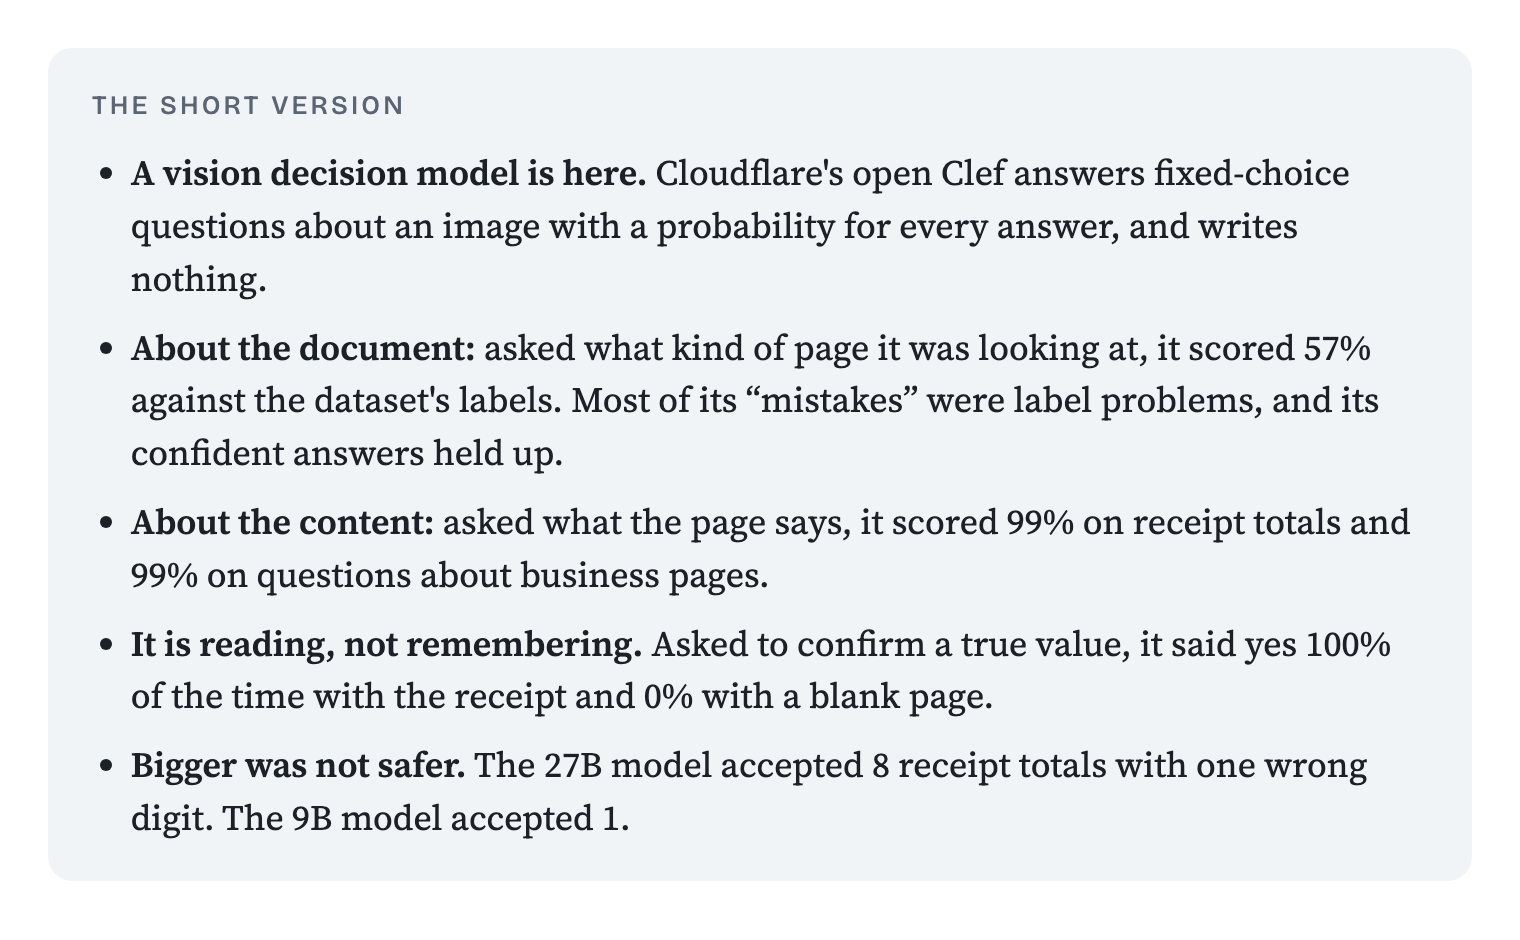
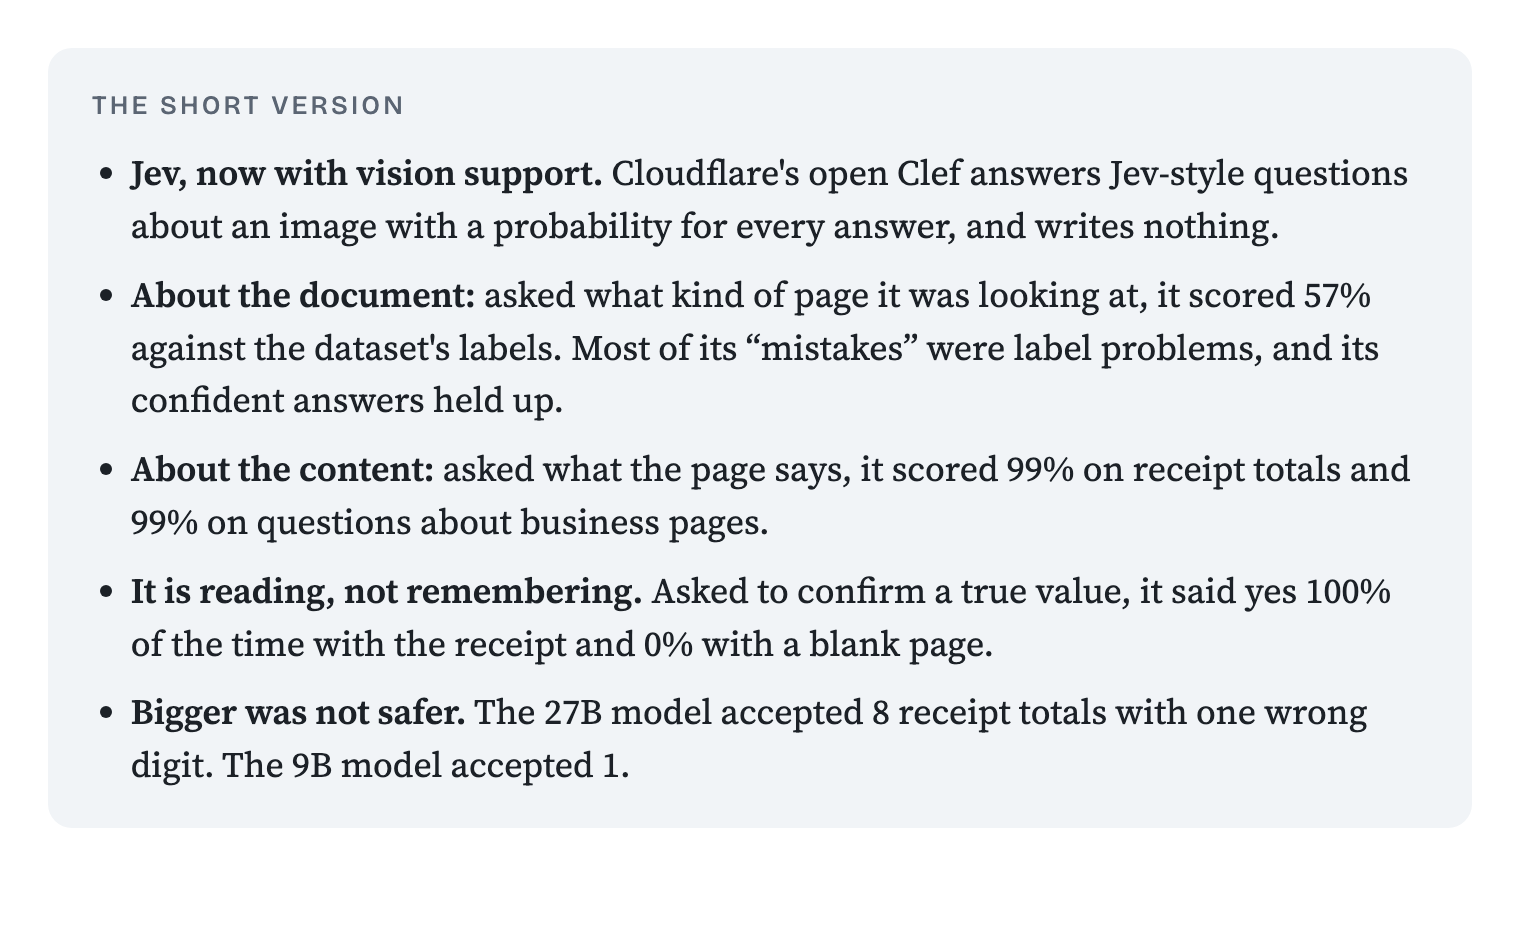
Blog: Jev-with-vision title and opening; journal entry 25

Changed region(s): [[0.0618, 0.1543, 0.9276, 0.833], [0.0928, 0.8638, 0.402, 0.8947]]

diff --git a/docs/blog/template.html b/docs/blog/template.html
@@ -136,15 +136,15 @@
 <main>
 <header>
   <div class="kicker">Field test · Decision models</div>
-  <h1>Can Cloudflare's Clef read your documents without writing a word?</h1>
-  <p class="hook">Everyone is talking about Jev. Two weeks later, almost nobody noticed that a decision model which can <em>see</em> had shipped. We pointed it at scans, receipts and business pages. It read them so well that we went looking for the trick.</p>
+  <h1>Jev, now with vision support: meet Clef, and watch it read documents</h1>
+  <p class="hook">Jev brought decision models into the spotlight in September: a model that answers each question with a probability for every allowed answer, and writes no text. Jev reads text only. Two weeks later Cloudflare released Clef, a decision model built on the same idea that also accepts images. It has received far less attention. We tested it on documents.</p>
   <div class="byline"><span>October 2026</span><a href="https://github.com/vignesh865/doc-jev">Code, raw replies and research journal</a></div>
 </header>
 
 <div class="short">
   <h3>The short version</h3>
   <ul>
-    <li><strong>A vision decision model is here.</strong> Cloudflare's open Clef answers fixed-choice questions about an image with a probability for every answer, and writes nothing.</li>
+    <li><strong>Jev, now with vision support.</strong> Cloudflare's open Clef answers Jev-style questions about an image with a probability for every answer, and writes nothing.</li>
     <li><strong>About the document:</strong> asked what kind of page it was looking at, it scored __E01_ACC__% against the dataset's labels. Most of its “mistakes” were label problems, and its confident answers held up.</li>
     <li><strong>About the content:</strong> asked what the page says, it scored __CORD_ACC__% on receipt totals and __DOC_ACC__% on questions about business pages.</li>
     <li><strong>It is reading, not remembering.</strong> Asked to confirm a true value, it said yes __CR_REAL__% of the time with the receipt and __CR_BLANK__% with a blank page.</li>
@@ -152,11 +152,20 @@
   </ul>
 </div>
 
-<h2>Wait, a decision model that can see?</h2>
-<p class="lead">This is the background: what a decision model is, and what Clef adds.</p>
-<p>Most AI models you have used are talkers. You ask, they write. That is great for conversation and awkward for paperwork. When you only want to know <em>is this an invoice?</em> or <em>is this the right total?</em>, a written reply is slow, costs money, sometimes arrives in the wrong format, and gives no honest signal of how sure the model is.</p>
-<p><strong>Decision models</strong> skip the writing. You send some input and a few questions with fixed answers, and you get back a probability for every allowed answer, say for <em>invoice</em>, <em>receipt</em> and <em>letter</em>. Jev made the idea popular in September, but Jev reads text only.</p>
-<p>On 1 October 2026 Cloudflare released two open models of the same kind, <strong>Clef</strong> (27 billion parameters) and the faster <strong>Clef-flash</strong> (9 billion), and these can look at <strong>images</strong>. Cloudflare's own results cover more than forty benchmarks, all text. None of them uses a document, and none says whether the probabilities can be trusted. So we tried.</p>
+<h2>What is Clef?</h2>
+<p class="lead">This is the introduction: the decision-model idea that Jev made popular, extended to images.</p>
+<p>Most AI models in use today are generative: you ask, and they write an answer. That suits conversation, but much routine work is not conversation. When the question is <em>is this an invoice?</em> or <em>is this the right total?</em>, a written reply is slower and costlier than it needs to be, may arrive in an unexpected format, and gives no reliable signal of how sure the model is.</p>
+<p><strong>Decision models</strong> take a different approach. You send some input and a set of questions with fixed answers, and the model returns a probability for every allowed answer, for example for <em>invoice</em>, <em>receipt</em> and <em>letter</em>. Nothing is generated. Jev brought this approach to wide attention in September 2026, but Jev accepts text only.</p>
+<p>On 1 October 2026 Cloudflare released <strong>Clef</strong>. It uses the same question types as Jev and accepts the same requests, its weights are open, and it comes in two sizes: <strong>Clef-flash</strong> (9 billion parameters) and <strong>Clef</strong> (27 billion). The difference is that Clef also accepts <strong>images</strong>. Cloudflare reports results on more than forty benchmarks, all of them text. None uses a document, and none reports whether the probabilities can be trusted.</p>
+
+<h2>What changes when a decision model can see?</h2>
+<p class="lead">This is why vision matters. The decision can be made from the page itself.</p>
+<ul class="plain">
+  <li><strong>No text extraction step.</strong> A text-only model needs the page converted to text first, usually by OCR. Each conversion loses something: layout, table structure, ticks, stamps, handwriting. A model that sees decides from the page as it is.</li>
+  <li><strong>Questions text cannot carry.</strong> Is the form signed? Is the box ticked? Is the page blank? Is this a scan or a photograph? These depend on what the page looks like, not only on its words.</li>
+  <li><strong>One request per page.</strong> The image goes in, typed answers come out, and each answer can drive an action directly: route the document, accept a value, or send the page to a person.</li>
+  <li><strong>Beyond documents.</strong> The same applies to screenshots, product photos and identity documents. We did not test those here.</li>
+</ul>
 
 <h2>Why point it at documents?</h2>
 <p class="lead">This is why the task fits. Most document work is deciding, not writing.</p>

diff --git a/docs/blog/clef-docs.html b/docs/blog/clef-docs.html
@@ -136,15 +136,15 @@
 <main>
 <header>
   <div class="kicker">Field test · Decision models</div>
-  <h1>Can Cloudflare's Clef read your documents without writing a word?</h1>
-  <p class="hook">Everyone is talking about Jev. Two weeks later, almost nobody noticed that a decision model which can <em>see</em> had shipped. We pointed it at scans, receipts and business pages. It read them so well that we went looking for the trick.</p>
+  <h1>Jev, now with vision support: meet Clef, and watch it read documents</h1>
+  <p class="hook">Jev brought decision models into the spotlight in September: a model that answers each question with a probability for every allowed answer, and writes no text. Jev reads text only. Two weeks later Cloudflare released Clef, a decision model built on the same idea that also accepts images. It has received far less attention. We tested it on documents.</p>
   <div class="byline"><span>October 2026</span><a href="https://github.com/vignesh865/doc-jev">Code, raw replies and research journal</a></div>
 </header>
 
 <div class="short">
   <h3>The short version</h3>
   <ul>
-    <li><strong>A vision decision model is here.</strong> Cloudflare's open Clef answers fixed-choice questions about an image with a probability for every answer, and writes nothing.</li>
+    <li><strong>Jev, now with vision support.</strong> Cloudflare's open Clef answers Jev-style questions about an image with a probability for every answer, and writes nothing.</li>
     <li><strong>About the document:</strong> asked what kind of page it was looking at, it scored 57% against the dataset's labels. Most of its “mistakes” were label problems, and its confident answers held up.</li>
     <li><strong>About the content:</strong> asked what the page says, it scored 99% on receipt totals and 99% on questions about business pages.</li>
     <li><strong>It is reading, not remembering.</strong> Asked to confirm a true value, it said yes 100% of the time with the receipt and 0% with a blank page.</li>
@@ -152,11 +152,20 @@
   </ul>
 </div>
 
-<h2>Wait, a decision model that can see?</h2>
-<p class="lead">This is the background: what a decision model is, and what Clef adds.</p>
-<p>Most AI models you have used are talkers. You ask, they write. That is great for conversation and awkward for paperwork. When you only want to know <em>is this an invoice?</em> or <em>is this the right total?</em>, a written reply is slow, costs money, sometimes arrives in the wrong format, and gives no honest signal of how sure the model is.</p>
-<p><strong>Decision models</strong> skip the writing. You send some input and a few questions with fixed answers, and you get back a probability for every allowed answer, say for <em>invoice</em>, <em>receipt</em> and <em>letter</em>. Jev made the idea popular in September, but Jev reads text only.</p>
-<p>On 1 October 2026 Cloudflare released two open models of the same kind, <strong>Clef</strong> (27 billion parameters) and the faster <strong>Clef-flash</strong> (9 billion), and these can look at <strong>images</strong>. Cloudflare's own results cover more than forty benchmarks, all text. None of them uses a document, and none says whether the probabilities can be trusted. So we tried.</p>
+<h2>What is Clef?</h2>
+<p class="lead">This is the introduction: the decision-model idea that Jev made popular, extended to images.</p>
+<p>Most AI models in use today are generative: you ask, and they write an answer. That suits conversation, but much routine work is not conversation. When the question is <em>is this an invoice?</em> or <em>is this the right total?</em>, a written reply is slower and costlier than it needs to be, may arrive in an unexpected format, and gives no reliable signal of how sure the model is.</p>
+<p><strong>Decision models</strong> take a different approach. You send some input and a set of questions with fixed answers, and the model returns a probability for every allowed answer, for example for <em>invoice</em>, <em>receipt</em> and <em>letter</em>. Nothing is generated. Jev brought this approach to wide attention in September 2026, but Jev accepts text only.</p>
+<p>On 1 October 2026 Cloudflare released <strong>Clef</strong>. It uses the same question types as Jev and accepts the same requests, its weights are open, and it comes in two sizes: <strong>Clef-flash</strong> (9 billion parameters) and <strong>Clef</strong> (27 billion). The difference is that Clef also accepts <strong>images</strong>. Cloudflare reports results on more than forty benchmarks, all of them text. None uses a document, and none reports whether the probabilities can be trusted.</p>
+
+<h2>What changes when a decision model can see?</h2>
+<p class="lead">This is why vision matters. The decision can be made from the page itself.</p>
+<ul class="plain">
+  <li><strong>No text extraction step.</strong> A text-only model needs the page converted to text first, usually by OCR. Each conversion loses something: layout, table structure, ticks, stamps, handwriting. A model that sees decides from the page as it is.</li>
+  <li><strong>Questions text cannot carry.</strong> Is the form signed? Is the box ticked? Is the page blank? Is this a scan or a photograph? These depend on what the page looks like, not only on its words.</li>
+  <li><strong>One request per page.</strong> The image goes in, typed answers come out, and each answer can drive an action directly: route the document, accept a value, or send the page to a person.</li>
+  <li><strong>Beyond documents.</strong> The same applies to screenshots, product photos and identity documents. We did not test those here.</li>
+</ul>
 
 <h2>Why point it at documents?</h2>
 <p class="lead">This is why the task fits. Most document work is deciding, not writing.</p>

diff --git a/JOURNAL.md b/JOURNAL.md
@@ -1058,3 +1058,20 @@ E06 and the contamination test are done.*
   number is unused** as well as if any placeholder is unfilled (this caught one
   missing number during the rewrite). 2,908 answered calls in total, $0.34 at
   list price, $0 paid. PNGs: 5 charts and 6 boxes.
+
+---
+
+## 25. Blog opening: Jev with vision
+
+*2026-10-10.*
+
+- **Framing [U].** Jev is the term readers know, so the post introduces Clef
+  as Jev with vision. Title chosen by the user: *"Jev, now with vision support:
+  meet Clef, and watch it read documents"*. Tone: measured, not colloquial
+  [U].
+- **New opening sections [U, wording by C].** "What is Clef?" (the
+  decision-model idea through Jev; same question types and requests; open
+  weights; 9B and 27B; images) and "What changes when a decision model can
+  see?" (no text-extraction step; questions text cannot carry, such as
+  signatures, ticks, blank pages, scan or photo; one request per page drives an
+  action; beyond documents, untested). The rest of the post is unchanged.
